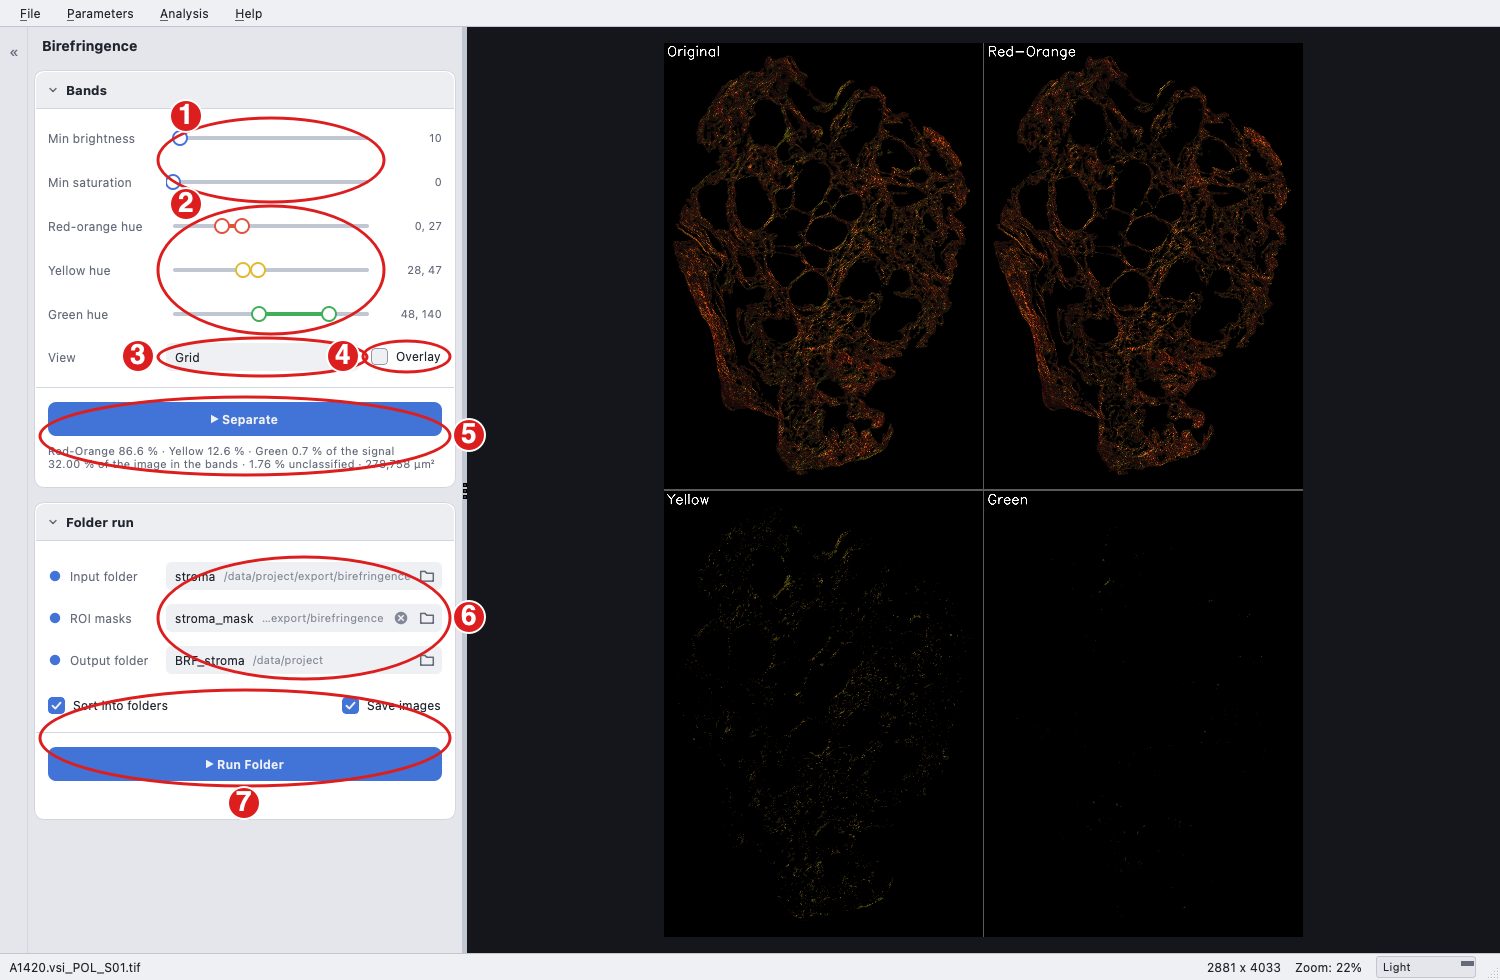
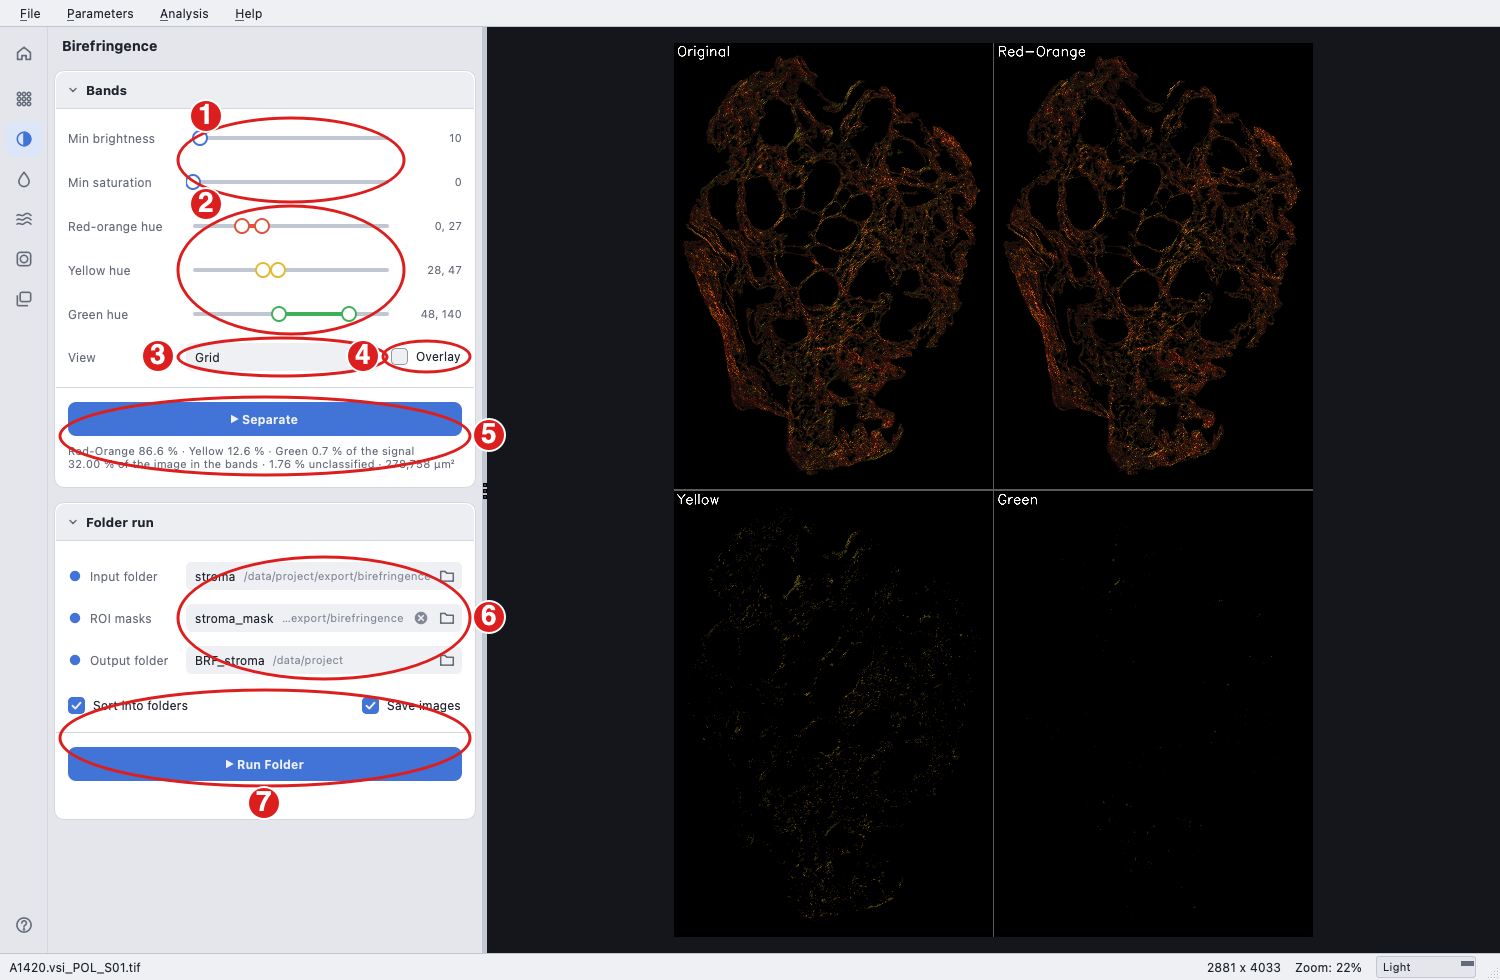
Page rail replaces the panel toggle; original Start page
An icon bar at the window's left edge opens each page with one click;
the open page's icon folds the side panel and any icon unfolds it. The
tour starts from the question mark at the bottom. The Start page is back
to its intro and three buttons.

diff --git a/cabana/ui.py b/cabana/ui.py
@@ -16,7 +16,7 @@ from PyQt5.QtWidgets import (QSlider, QWidget, QSplitter, QSplitterHandle,
                              QProgressBar, QSizePolicy, QPushButton, QSpinBox,
                              QAbstractSpinBox, QAbstractSlider, QComboBox, QScrollBar,
                              QAbstractScrollArea, QApplication, QFrame, QLabel, QLineEdit,
-                             QHBoxLayout, QVBoxLayout, QLayout, QToolButton, QDialog)
+                             QHBoxLayout, QVBoxLayout, QLayout, QToolButton, QDialog, QButtonGroup)
 from PyQt5.QtCore import Qt, QSize, QEvent, QPoint, QRect, QRectF, QPropertyAnimation, QEasingCurve, pyqtProperty
 from PyQt5.QtGui import (QPixmap, QPainter, QPen, QColor, QDragEnterEvent, QDropEvent, QImage, QBrush,
                          QFont, QFontMetrics, QIcon)
@@ -106,6 +106,17 @@ _ICON_SHAPES = {
     'play': '<path d="M3.5 2L12.5 7L3.5 12Z" fill="{c}"/>',
     'clear': '<circle cx="7" cy="7" r="5.5" fill="{c}"/><path d="M5 5L9 9M9 5L5 9" stroke="{c2}" '
              'stroke-width="1.3" stroke-linecap="round"/>',
+    # side-panel pages (the page rail)
+    'page-start': '<path d="M2 6.6L7 2.6L12 6.6V12H8.6V9H5.4V12H2Z"/>',
+    'page-tma': ''.join(f'<circle cx="{x}" cy="{y}" r="1.35"/>' for x in (3.2, 7, 10.8) for y in (3.2, 7, 10.8)),
+    'page-brf': '<circle cx="7" cy="7" r="5.2"/><path d="M7 1.8A5.2 5.2 0 0 1 7 12.2Z" fill="{c}"/>',
+    'page-seg': '<path d="M7 1.8C7 1.8 3 6.4 3 8.9A4 4 0 0 0 11 8.9C11 6.4 7 1.8 7 1.8Z"/>',
+    'page-fibres': '<path d="M1.6 4.2C3.4 2.4 5 5.6 7 3.8S10.6 2.4 12.4 4.2M1.6 7.6C3.4 5.8 5 9 7 7.2'
+                   'S10.6 5.8 12.4 7.6M1.6 11C3.4 9.2 5 12.4 7 10.6S10.6 9.2 12.4 11"/>',
+    'page-gaps': '<rect x="1.8" y="1.8" width="10.4" height="10.4" rx="2.2"/><circle cx="7" cy="7" r="2.9"/>',
+    'page-batch': '<rect x="4" y="1.8" width="8.2" height="7.2" rx="1.4"/><path d="M1.8 4.6V11.2A1 1 0 0 0 2.8 12.2H9.6"/>',
+    'page-help': '<circle cx="7" cy="7" r="5.5"/><path d="M5.3 5.5A1.8 1.8 0 1 1 7.7 7.2C7.2 7.4 7 7.8 7 8.3V8.6"/>'
+                 '<circle cx="7" cy="10.4" r="0.45" fill="{c}"/>',
 }
 
 
@@ -120,6 +131,9 @@ def icon_path(name: str, color: QColor, color2: QColor = None) -> str:
     path = os.path.join(folder, f"{name}_{c[1:]}_{c2[1:]}.svg")
     if not os.path.isfile(path):
         body = _ICON_SHAPES[name].format(c=c, c2=c2)
+        if name.startswith('page-'):          # line icons: one stroke style for the whole set
+            body = (f'<g fill="none" stroke="{c}" stroke-width="1.25" stroke-linecap="round" '
+                    f'stroke-linejoin="round">{body}</g>')
         with open(path, "w") as f:
             f.write(f'<svg xmlns="http://www.w3.org/2000/svg" width="14" height="14" viewBox="0 0 14 14">{body}</svg>')
     return path.replace("\\", "/")
@@ -2047,39 +2061,72 @@ class CustomSplitter(QSplitter):
         return CustomSplitterHandle(self.orientation(), self)
 
 
-class PanelToggleButton(QPushButton):
-    """Folds and unfolds the side panel: a guillemet pointing left (panel
-    open) or right (panel folded). It sits on the fixed rail at the window's
-    left edge, so it stays under the pointer whether the panel is open or not."""
+class PageRail(QFrame):
+    """Icon bar at the window's left edge: one icon per side-panel page, the
+    tour at the bottom. A click on a page's icon opens that page; the open
+    page's icon folds the side panel (the window decides, via
+    ``page_clicked``)."""
 
-    def __init__(self, parent=None):
+    page_clicked = pyqtSignal(int)
+    help_clicked = pyqtSignal()
+
+    def __init__(self, pages, parent=None):
+        """``pages``: (icon name, tooltip) per page, in page order."""
         super().__init__(parent)
-        self.setCheckable(True)
-        self.setFixedSize(24, 32)
-        self.setCursor(Qt.PointingHandCursor)
-        self.setToolTip("Fold or unfold the side panel (Ctrl+B)")
+        self.setObjectName("pageRail")
+        self.setFixedWidth(48)
+        layout = QVBoxLayout(self)
+        layout.setContentsMargins(6, 8, 6, 10)
+        layout.setSpacing(4)
+        self.group = QButtonGroup(self)
+        self.group.setExclusive(True)
+        self.buttons = []
+        for index, (icon, tip) in enumerate(pages):
+            btn = self._button(icon, tip, checkable=True)
+            self.group.addButton(btn, index)
+            btn.clicked.connect(lambda _checked=False, i=index: self.page_clicked.emit(i))
+            layout.addWidget(btn, 0, Qt.AlignHCenter)
+            self.buttons.append(btn)
+            if index == 0:
+                layout.addSpacing(6)          # Start, then the analysis pages
+        layout.addStretch(1)
+        self.help_btn = self._button('page-help', "Take the Tour", checkable=False)
+        self.help_btn.clicked.connect(self.help_clicked.emit)
+        layout.addWidget(self.help_btn, 0, Qt.AlignHCenter)
+        self.restyle()
 
-    def paintEvent(self, event):
-        painter = QPainter(self)
-        painter.setRenderHint(QPainter.Antialiasing)
-        hot = self.underMouse()
-        if hot:
-            painter.setBrush(panel_colors()['field'])
-            painter.setPen(Qt.NoPen)
-            painter.drawRoundedRect(QRectF(self.rect()), 6, 6)
-        painter.setPen(QPen(COLORS['highlight'] if hot else COLORS['text_dim'], 1))
-        font = painter.font()
-        font.setPixelSize(15)
-        painter.setFont(font)
-        painter.drawText(self.rect(), Qt.AlignCenter, '\u00bb' if self.isChecked() else '\u00ab')
+    @staticmethod
+    def _button(icon, tip, checkable):
+        btn = QToolButton()
+        btn.setCheckable(checkable)
+        btn.setFixedSize(36, 36)
+        btn.setIconSize(QSize(18, 18))
+        btn.setToolTip(tip)
+        btn.setCursor(Qt.PointingHandCursor)
+        btn.setFocusPolicy(Qt.NoFocus)        # Ctrl/Cmd+1 to 6 switch pages from the keyboard
+        btn.setProperty('icon_name', icon)
+        return btn
 
-    def enterEvent(self, event):
-        self.update()
-        super().enterEvent(event)
+    def set_current(self, index):
+        self.buttons[index].setChecked(True)
 
-    def leaveEvent(self, event):
-        self.update()
-        super().leaveEvent(event)
+    def restyle(self):
+        """Apply the current theme: icons accent when checked, dim otherwise."""
+        pc = panel_colors()
+        for btn in self.buttons + [self.help_btn]:
+            name = btn.property('icon_name')
+            icon = QIcon()
+            icon.addFile(icon_path(name, COLORS['text_dim']), QSize(), QIcon.Normal, QIcon.Off)
+            icon.addFile(icon_path(name, COLORS['highlight']), QSize(), QIcon.Normal, QIcon.On)
+            icon.addFile(icon_path(name, COLORS['highlight']), QSize(), QIcon.Active, QIcon.Off)
+            btn.setIcon(icon)
+        self.setStyleSheet(
+            f"QFrame#pageRail {{ background-color: {color_to_stylesheet(pc['panel'])};"
+            f" border: none; border-right: 1px solid {color_to_stylesheet(pc['card_border'])}; }}"
+            f"QToolButton {{ border: none; border-radius: 8px; background: transparent; }}"
+            f"QToolButton:hover {{ background-color: {color_to_stylesheet(pc['field'])}; }}"
+            f"QToolButton:checked {{ background-color:"
+            f" {color_to_stylesheet(_mix(pc['card'], COLORS['highlight'], 0.18))}; }}")
 
 
 class ImagePanel(QWidget):

diff --git a/cabana/cabana_gui.py b/cabana/cabana_gui.py
@@ -245,20 +245,15 @@ class MainWindow(QMainWindow):
         self.image_panel = ImagePanel()
         self.image_panel.imageDropped.connect(self.load_original_image)
 
-        # Panel toggle on a fixed rail at the window's left edge: it stays put
-        # when the panel folds or unfolds (on the image panel's edge it jumped
-        # by the panel width, so the next click missed it)
-        self.toggle_button = PanelToggleButton()
-        self.toggle_button.clicked.connect(self.toggle_panel)
-        self.panel_rail = QWidget()
-        self.panel_rail.setObjectName("panelRail")
-        self.panel_rail.setAttribute(Qt.WA_StyledBackground, True)
-        self.panel_rail.setFixedWidth(28)
-        rail_layout = QVBoxLayout(self.panel_rail)
-        rail_layout.setContentsMargins(2, 8, 2, 8)
-        rail_layout.addWidget(self.toggle_button, 0, Qt.AlignHCenter)
-        rail_layout.addStretch(1)
-        self.panel_rail.setStyleSheet(self._rail_style())
+        # Page rail at the window's left edge: an icon per page; the open
+        # page's icon folds the side panel and any icon unfolds it
+        icons = ['page-start', 'page-tma', 'page-brf', 'page-seg', 'page-fibres', 'page-gaps', 'page-batch']
+        tips = ["Start"] + [f"{title} ({action.shortcut().toString(QKeySequence.NativeText)})"
+                            for title, action in self._page_actions]
+        self.page_rail = PageRail(list(zip(icons, tips)))
+        self.page_rail.page_clicked.connect(self._rail_clicked)
+        self.page_rail.help_clicked.connect(self.start_tour)
+        self.page_rail.set_current(self.pages.currentIndex())
 
         # Add widgets to splitter
         self.splitter.addWidget(self.dock_contents)
@@ -298,7 +293,7 @@ class MainWindow(QMainWindow):
         body = QHBoxLayout()
         body.setContentsMargins(0, 0, 0, 0)
         body.setSpacing(0)
-        body.addWidget(self.panel_rail)
+        body.addWidget(self.page_rail)
         body.addWidget(self.splitter, 1)
         self.main_layout.addLayout(body)
 
@@ -495,6 +490,8 @@ class MainWindow(QMainWindow):
         self.page_title.setText(self._page_titles[index])
         for page, switch in self._title_switches.items():
             switch.setVisible(self.pages.widget(index) is page)
+        if hasattr(self, 'page_rail'):
+            self.page_rail.set_current(index)
         if index == 0:
             checked = self._page_group.checkedAction()
             if checked is not None:
@@ -505,15 +502,22 @@ class MainWindow(QMainWindow):
             self.toggle_panel()
 
     def setup_start_tab(self):
-        """Landing page shown at launch: the three ways to begin, then links to
-        the tour and the documentation."""
-        layout = self._page_layout()
-        layout.setContentsMargins(0, 8, 0, 6)
+        """Landing page shown at launch: the three ways to begin."""
+        layout = QVBoxLayout()
+        layout.setContentsMargins(6, 10, 6, 6)
+        layout.setSpacing(10)
+
+        intro = QLabel("Open a TMA slide to cut it into cores, open an image to tune parameters "
+                       "on it, or import a saved parameter file. The analysis pages are on the bar "
+                       "at the left and under the Analysis menu (Ctrl/Cmd+1 to 6).")
+        intro.setWordWrap(True)
+        intro.setStyleSheet(self.value_label_style)
+        layout.addWidget(intro)
 
         self.start_actions = QWidget()          # what the tour's first step points at
         actions = QVBoxLayout(self.start_actions)
         actions.setContentsMargins(0, 0, 0, 0)
-        actions.setSpacing(8)
+        actions.setSpacing(10)
         self.start_slide_btn = self._primary_button("Open TMA Slide…", play=False)
         self.start_slide_btn.setToolTip("Open a whole-slide TMA scan on the TMA Dearrayer page.")
         self.start_slide_btn.clicked.connect(self._open_tma_slide_from_menu)
@@ -529,22 +533,6 @@ class MainWindow(QMainWindow):
         self.start_params_btn.clicked.connect(self.import_parameters)
         actions.addWidget(self.start_params_btn)
         layout.addWidget(self.start_actions)
-
-        links = QHBoxLayout()
-        links.setSpacing(18)
-        self.start_tour_btn = QPushButton("Take the Tour")
-        self.start_tour_btn.setToolTip("Walk through the analysis, one step at a time.")
-        self.start_tour_btn.clicked.connect(self.start_tour)
-        self.start_docs_btn = QPushButton("Documentation")
-        self.start_docs_btn.setToolTip("Open the online documentation.")
-        self.start_docs_btn.clicked.connect(
-            lambda: QDesktopServices.openUrl(QUrl("https://cabana.readthedocs.io")))
-        for btn in (self.start_tour_btn, self.start_docs_btn):
-            btn.setStyleSheet(self.link_btn_style)
-            btn.setCursor(Qt.PointingHandCursor)
-            links.addWidget(btn)
-        links.addStretch(1)
-        layout.addLayout(links)
 
         layout.addStretch()
         self.start_tab.setLayout(layout)
@@ -750,16 +738,17 @@ class MainWindow(QMainWindow):
         else:
             self.dock_contents.show()
         self.panel_visible = not self.panel_visible
-        self.toggle_button.setChecked(not self.panel_visible)
         if hasattr(self, 'toggle_panel_action'):
             self.toggle_panel_action.setChecked(self.panel_visible)
 
 
-    @staticmethod
-    def _rail_style():
-        pc = panel_colors()
-        return (f"QWidget#panelRail {{ background-color: {color_to_stylesheet(pc['panel'])};"
-                f" border-right: 1px solid {color_to_stylesheet(pc['card_border'])}; }}")
+    def _rail_clicked(self, index):
+        """A page icon on the rail: the open page's icon folds the panel, any
+        other icon (or any icon while folded) shows that page."""
+        if index == self.pages.currentIndex() and self.panel_visible:
+            self.toggle_panel()
+        else:
+            self.show_page(index)
 
     def _setup_styles(self) -> None:
         """Set up all style sheets"""
@@ -795,12 +784,7 @@ class MainWindow(QMainWindow):
 
         # Side panel: section cards, row labels, notes, option lists
         self.panel_style = generate_panel_style()
-        # Text links (Start page)
-        accent = color_to_stylesheet(COLORS['highlight'])
-        self.link_btn_style = (
-            f"QPushButton {{ border: none; background: transparent; color: {accent};"
-            f" padding: 2px 0px; font-size: {FONT_SIZES['base']}px; font-weight: 500; }}"
-            f"QPushButton:hover {{ text-decoration: underline; }}")
+
 
         # Value label style (slider readouts)
         self.value_label_style = (
@@ -4090,9 +4074,7 @@ class MainWindow(QMainWindow):
         dock_palette.setColor(QPalette.Window, panel_colors()['panel'])
         self.dock_contents.setPalette(dock_palette)
         self.dock_contents.setStyleSheet(self.panel_style)
-        self.panel_rail.setStyleSheet(self._rail_style())
-        self.start_tour_btn.setStyleSheet(self.link_btn_style)
-        self.start_docs_btn.setStyleSheet(self.link_btn_style)
+        self.page_rail.restyle()
         for widget in self.dock_contents.findChildren((SectionCard, PathEdit)):
             widget.restyle()
         for btn in self._play_buttons:

diff --git a/tests/test_tour.py b/tests/test_tour.py
@@ -142,20 +142,33 @@ def test_dialogs_use_the_card_style(win, monkeypatch):
     assert all(n in [w.text() for w in news.findChildren(gui.QLabel)] for n in notes)
 
 
-def test_start_page_is_three_buttons_and_two_links(win):
+def test_start_page_is_the_intro_and_three_buttons(win):
     from cabana.ui import SectionCard
     assert not win.start_tab.findChildren(SectionCard)
     assert [b.text() for b in (win.start_slide_btn, win.start_open_btn, win.start_params_btn)] == [
         "Open TMA Slide…", "Open Image…", "Import Parameters…"]
-    assert (win.start_tour_btn.text(), win.start_docs_btn.text()) == ("Take the Tour", "Documentation")
 
 
-def test_panel_toggle_stays_put_when_the_panel_folds(win, app):
-    from PyQt5.QtCore import QPoint
+def test_page_rail_opens_pages_and_folds_the_panel(win, app):
     from PyQt5.QtTest import QTest
-    where = win.toggle_button.mapTo(win, QPoint(0, 0))
-    for visible in (False, True, False, True):
-        QTest.mouseClick(win.toggle_button, Qt.LeftButton)
-        settle(app)
-        assert win.panel_visible is visible and win.dock_contents.isVisible() is visible
-        assert win.toggle_button.mapTo(win, QPoint(0, 0)) == where     # the next click lands on it
+    rail = win.page_rail
+    assert len(rail.buttons) == win.pages.count() and rail.buttons[0].isChecked()
+    seg = win.pages.indexOf(win.seg_tab)
+    QTest.mouseClick(rail.buttons[seg], Qt.LeftButton)              # another page: show it
+    settle(app)
+    assert win.pages.currentIndex() == seg and win.panel_visible and rail.buttons[seg].isChecked()
+    QTest.mouseClick(rail.buttons[seg], Qt.LeftButton)              # the open page again: fold
+    settle(app)
+    assert not win.panel_visible and not win.dock_contents.isVisible()
+    QTest.mouseClick(rail.buttons[seg], Qt.LeftButton)              # and unfold
+    settle(app)
+    assert win.panel_visible and win.pages.currentIndex() == seg
+    win.toggle_panel()                                              # folded, then another page
+    QTest.mouseClick(rail.buttons[win.pages.indexOf(win.bat_tab)], Qt.LeftButton)
+    settle(app)
+    assert win.panel_visible and win.pages.currentWidget() is win.bat_tab
+    win.show_page(win.pages.indexOf(win.det_tab))                   # the menu keeps the rail in step
+    assert rail.buttons[win.pages.indexOf(win.det_tab)].isChecked()
+    rail.help_btn.click()
+    assert win._tour is not None
+    win._tour.end()

diff --git a/docs/source/workflow.md b/docs/source/workflow.md
@@ -15,7 +15,7 @@ Once the Cabana GUI is launched, you will see a window split horizontally: the c
 
 **Take the Tour** (on the Start page or under **Help**) walks through the analysis one step at a time: each step opens its page and highlights the settings to look at, with **Back** and **Next** to move between steps and Esc to leave. It changes no settings and needs no image. Cabana offers the tour once, the first time it starts. After an upgrade it shows a short **What's New** note once; **Help > What's New** shows it again.
 
-The control panel shows one page at a time, its settings grouped in collapsible cards (click a card's title to fold it). Hover any label or control for a short description; the same hint appears in the status bar at the bottom, which also shows the loaded file, its size and the zoom. The theme selector sits at the bottom right.
+The control panel shows one page at a time, its settings grouped in collapsible cards (click a card's title to fold it). The bar at the left edge has an icon for each page: click one to open that page, click the open page's icon again to fold the panel and give the image the whole window (**Ctrl/Cmd+B** does the same); the question mark at the bottom starts the tour. Hover any label or control for a short description; the same hint appears in the status bar at the bottom, which also shows the loaded file, its size and the zoom. The theme selector sits at the bottom right.
 
 To begin, select a representative image from your dataset, then work through the Segmentation, Fibre Detection and Gap Analysis pages in that order to determine the settings for your analysis. For polarised-light (birefringence) images, the Birefringence page separates the red-orange, yellow and green colour bands, one image or a whole folder (**Run Folder**). Its settings are not part of the parameter file. The band images it writes can then be analysed like any other images: tune and export a polarised-light parameter file (segmentation off, **Dark line** off) and use it on the Batch Run page.
 
